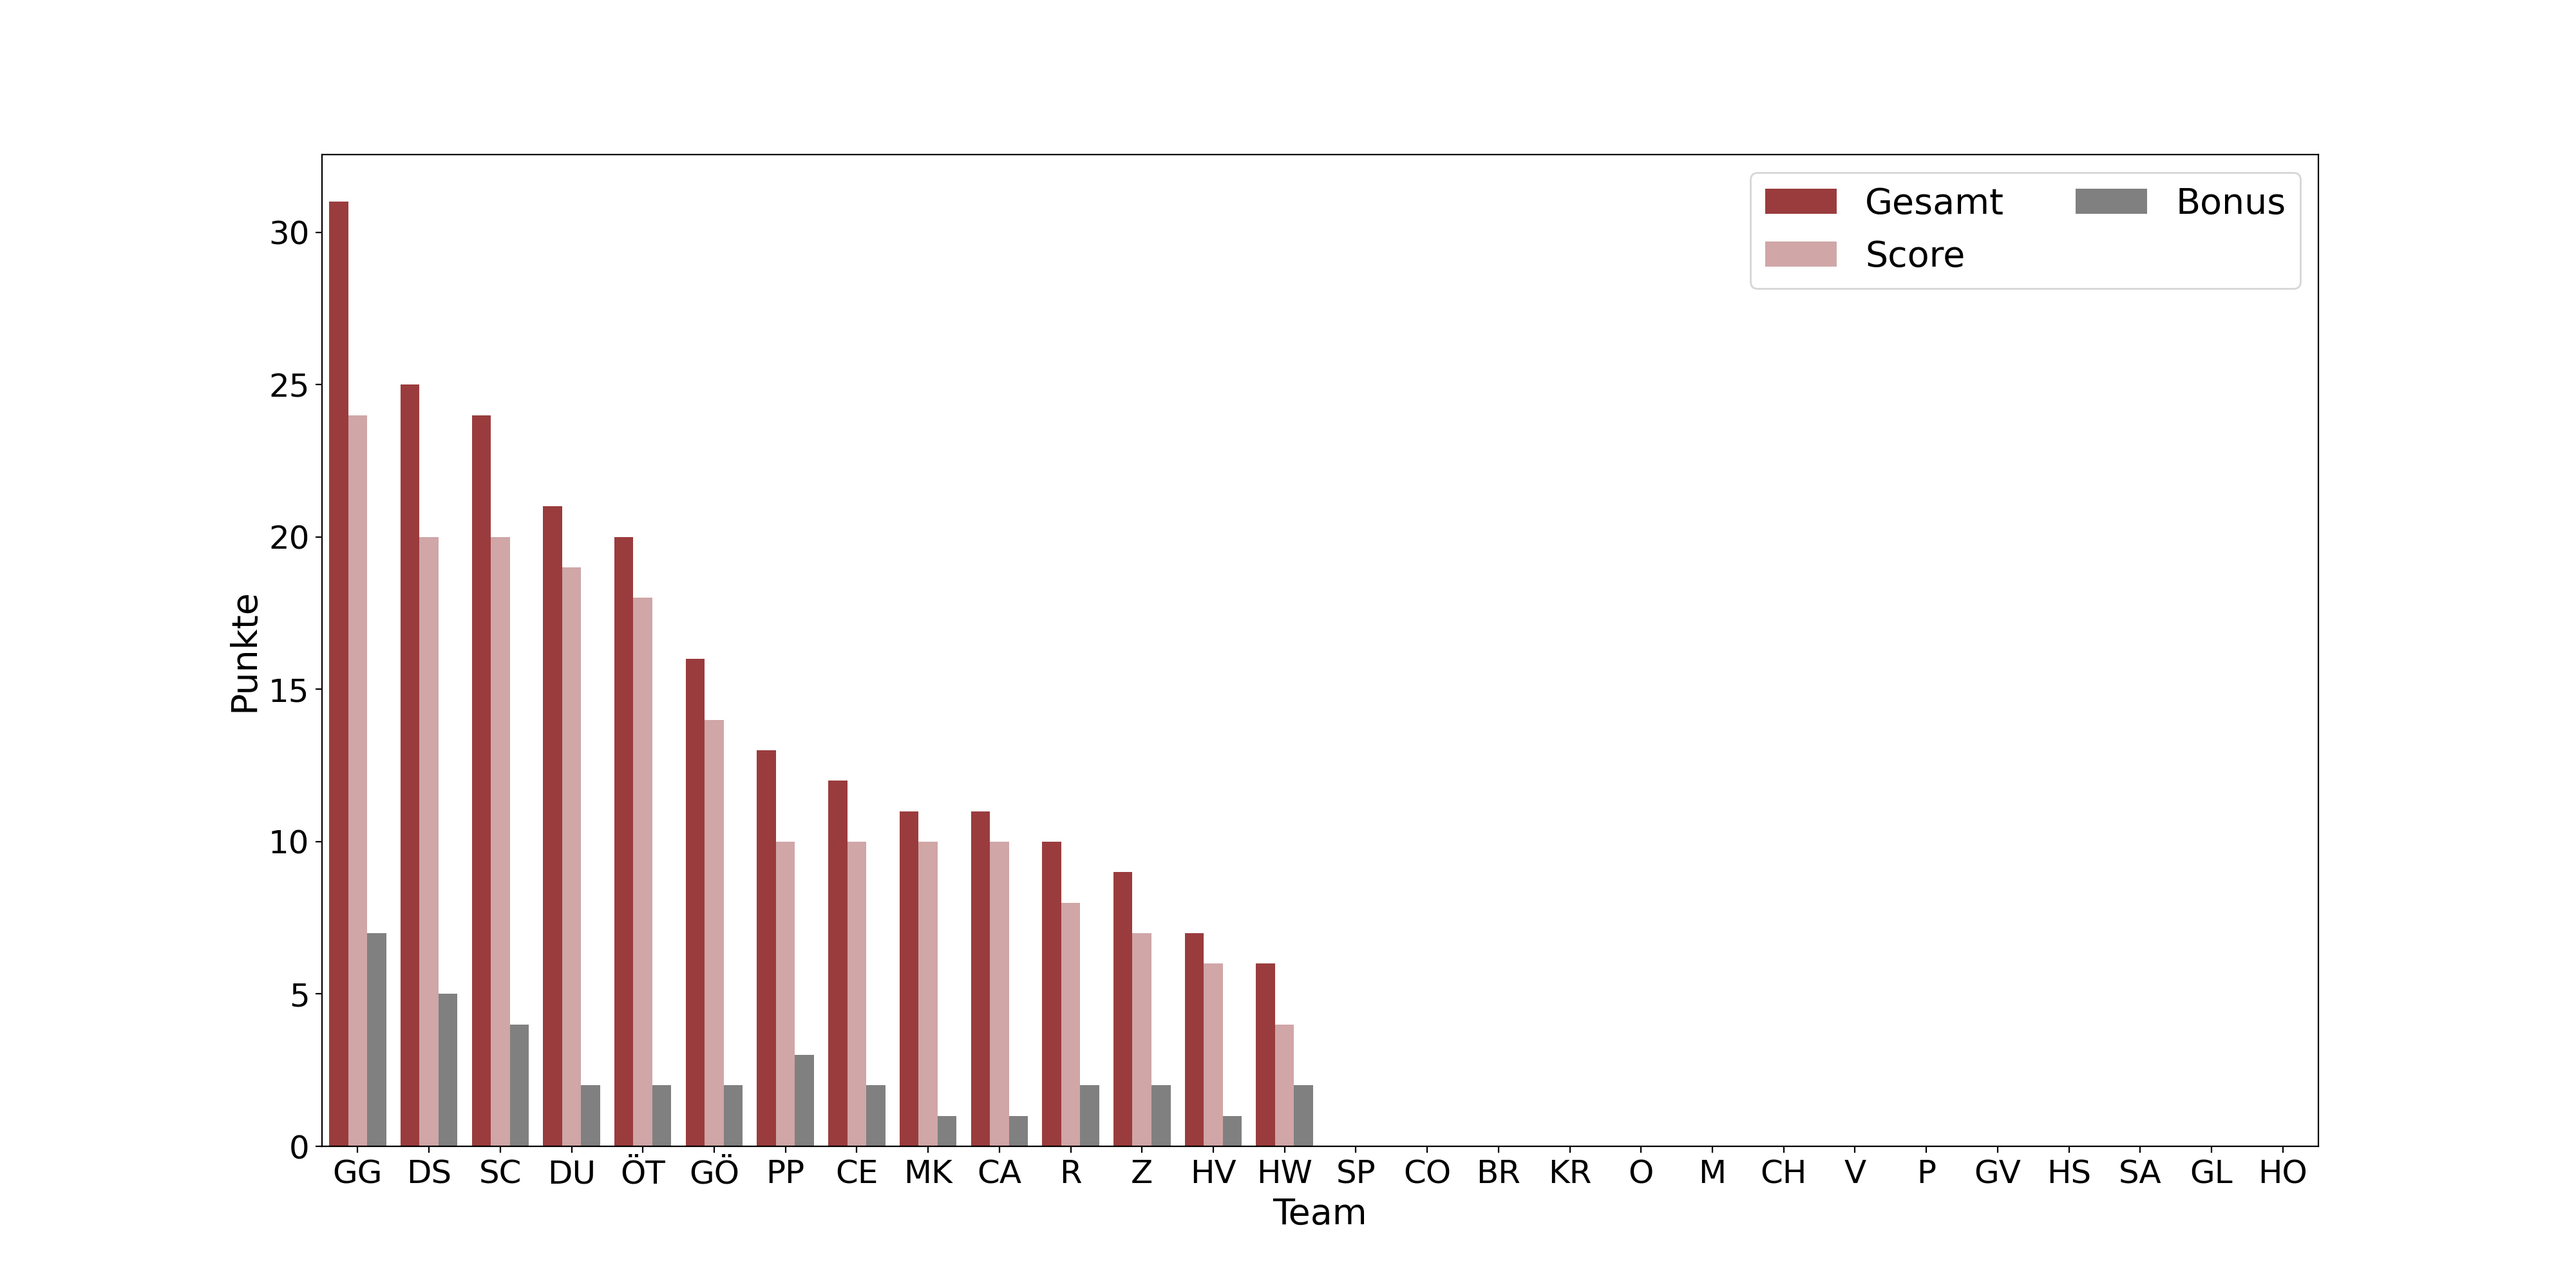
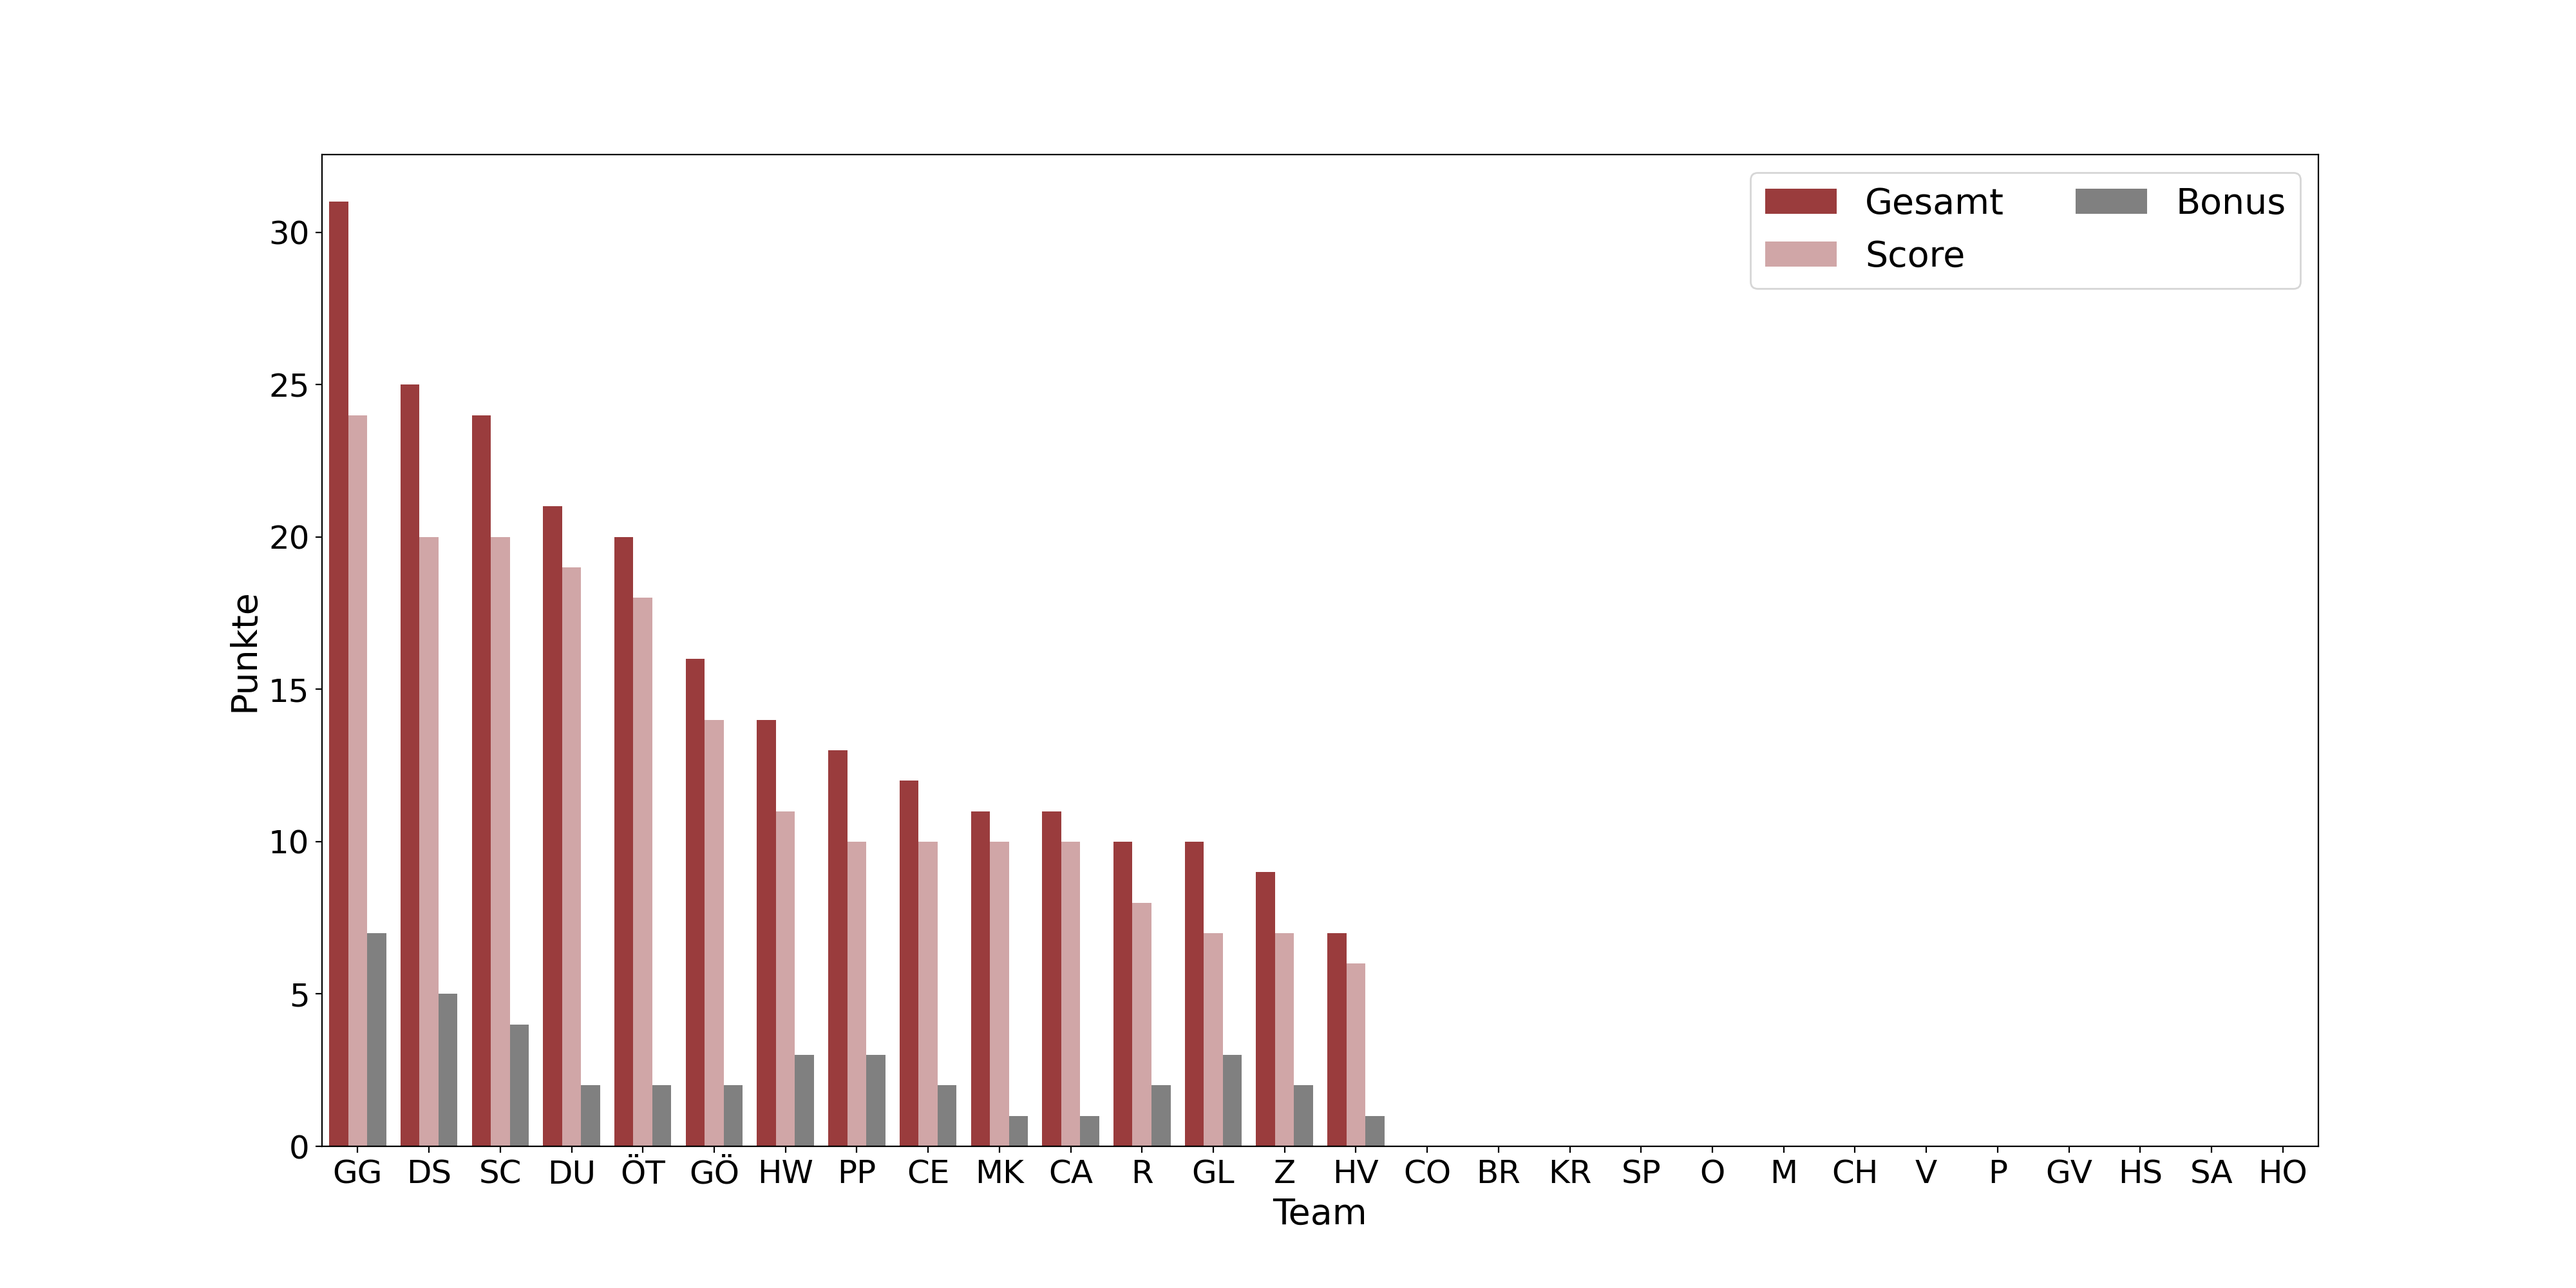
update

diff --git a/css/style_teams.css b/css/style_teams.css
@@ -1,21 +1,21 @@
 
         .GL .team__score::after {
-            content: "0/120"
+            content: "7/120"
         }
         .GL .team__stations::after {
-            content: "1/12"
+            content: "2/12"
         }
         .GL .team__bonus::after {
-            content: "0/36"
+            content: "3/36"
         }
         .GL .team__logo {
             background-color: #bde0fe
         }
         .GL {
-            order: 26
+            order: 12
         }
         .GL .team__all-points::after{
-            content: "0"
+            content: "10"
         }
         
         .O .team__score::after {
@@ -31,7 +31,7 @@
             background-color: #daeaf6
         }
         .O {
-            order: 18
+            order: 19
         }
         .O .team__all-points::after{ 
             content: " 0"
@@ -51,7 +51,7 @@
             background-color: #9bd0b7
         }
         .Z {
-            order: 11
+            order: 13
         }
         .Z .team__all-points::after{
             content: "9"
@@ -72,7 +72,7 @@
             background-color: #c23a22
         }
         .M {
-            order: 19
+            order: 20
         }
         .M .team__all-points::after{
             content: "0 "
@@ -174,7 +174,7 @@
             background-color: #d291bc
         }
         .CH {
-            order: 20
+            order: 21
         }
         .CH .team__all-points::after{
             content: "0"
@@ -214,7 +214,7 @@
             background-color: #ffdfdc
         }
         .GV {
-            order: 23
+            order: 24
         }
         .GV .team__all-points::after{
             content: "0"
@@ -254,7 +254,7 @@
             background-color: #cccccc
         }
         .V {
-            order: 21
+            order: 22
         }
         .V .team__all-points::after{
             content: "0"
@@ -274,7 +274,7 @@
             background-color: #9cadce
         }
         .MK {
-            order: 8
+            order: 9
         }
         .MK .team__all-points::after{
             content: "11"
@@ -294,7 +294,7 @@
             background-color: #a2d2ff
         }
         .SA {
-            order: 25
+            order: 26
         }
         .SA .team__all-points::after{
             content: "0"
@@ -314,7 +314,7 @@
             background-color: #5d5b6a
         }
         .P {
-            order: 22
+            order: 23
         }
         .P .team__all-points::after{
             content: "0"
@@ -334,7 +334,7 @@
             background-color: #ffafcc
         }
         .R {
-            order: 10
+            order: 11
         }
         .R .team__all-points::after{
             content: "10"
@@ -355,7 +355,7 @@
             background-color: #efe9ae
         }
         .HS {
-            order: 24
+            order: 25
         }
         .HS .team__all-points::after{
             content: "0"
@@ -376,7 +376,7 @@
             background-color: #ff928b
         }
         .CE {
-            order: 7
+            order: 8
         }
         .CE .team__all-points::after{
             content: "12"
@@ -396,7 +396,7 @@
             background-color: #7ec4cf
         }
         .PP {
-            order: 6
+            order: 7
         }
         .PP .team__all-points::after{
             content: "13"
@@ -404,22 +404,22 @@
 
         
         .HW .team__score::after {
-            content: "4/120"
+            content: "11/120"
         }
         .HW .team__stations::after {
-            content: "2/12"
+            content: "3/12"
         }
         .HW .team__bonus::after {
-            content: "2/36"
+            content: "3/36"
         }
         .HW .team__logo {
             background-color: #758184
         }
         .HW {
-            order: 13
+            order: 6
         }
         .HW .team__all-points::after{
-            content: "6"
+            content: "14"
         }
 
 
@@ -476,7 +476,7 @@
             background-color: #b8e0d2
         }
         .HV {
-            order: 12
+            order: 14
         }
         .HV .team__all-points::after{
             content: "7"
@@ -516,7 +516,7 @@
             background-color: #ffc8dd
         }
         .CA {
-            order: 9
+            order: 10
         }
         .CA .team__all-points::after{
             content: "11"
@@ -535,7 +535,7 @@
             background-color: #f6bc66
         }
         .SP {
-            order: 14
+            order: 18
         }
         .SP .team__all-points::after{
             content: "0"

diff --git a/css/style_station.css b/css/style_station.css
@@ -12,11 +12,11 @@
         }
 
         .D .station__teams::after {
-            content: "0/28"
+            content: "1/28"
         }
 
         .E .station__teams::after {
-            content: "7/28"
+            content: "8/28"
         }
 
         .F .station__teams::after {
